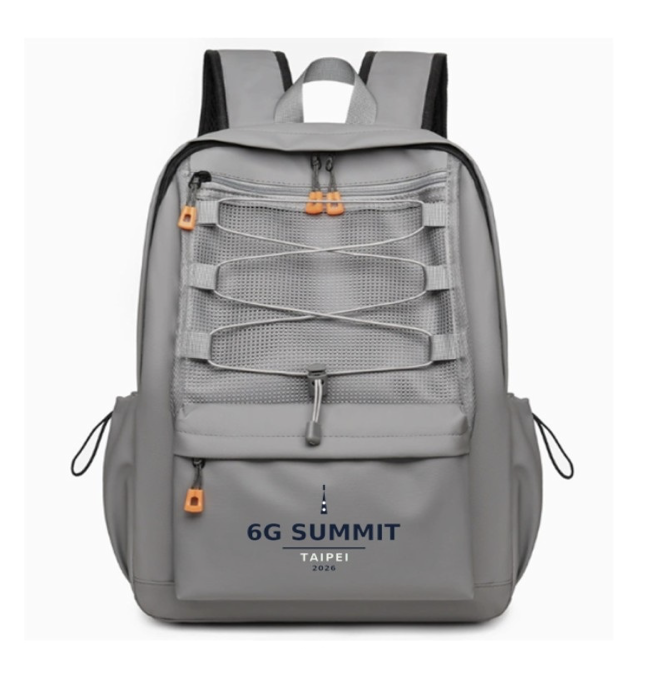
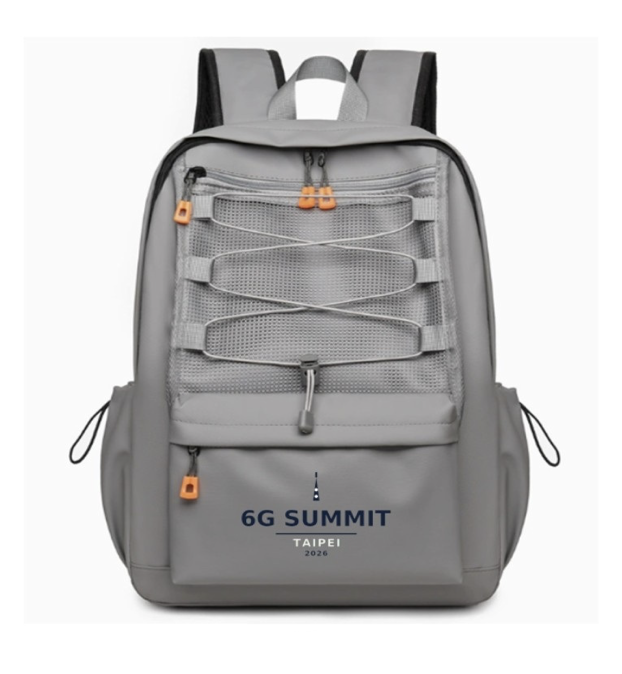
Update 13 August speakers and gift visuals

Changed region(s): [[0.0916, 0.0623, 0.9164, 0.9347], [0.3666, 0.7166, 0.6415, 0.8412], [0.3666, 0.6543, 0.3971, 0.6855]]

diff --git a/index.html b/index.html
@@ -9,7 +9,7 @@
   <link rel="stylesheet" href="speaker.css?v=20260803-3">
   <link rel="stylesheet" href="banner.css">
   <link rel="stylesheet" href="mobile.css?v=20260729-2">
-  <link rel="stylesheet" href="client-feedback.css?v=20260812-1">
+  <link rel="stylesheet" href="client-feedback.css?v=20260813-1">
 </head>
 <body>
   <header class="site-header">
@@ -117,14 +117,14 @@
         <h2 class="centered-section-title">SPEAKERS</h2>
         <p class="speaker-order-note">Speakers are listed in order of appearance in the program.</p>
         <div class="speaker-grid">
-          <article><div class="speaker-visual"><img src="assets/speaker-akihiro-nakao-20260804.jpg" alt="Akihiro Nakao" loading="lazy"></div><h3>Akihiro Nakao</h3><p>Chair<br>XGMF</p></article>
           <article><div class="speaker-visual"><img src="assets/speaker-sarah-skaluba-20260803.webp?v=20260803-1" alt="Sarah Skaluba" loading="lazy"></div><h3>Sarah Skaluba</h3><p>6G Policy Lead, Office of Policy and International Affairs<br>NTIA</p><button class="speaker-profile-button" type="button" data-speaker-profile="sarah-skaluba">VIEW PROFILE <span>→</span></button></article>
           <article><div class="speaker-visual"><img src="assets/speaker-mitch-tseng-20260812.jpg" alt="Mitch Tseng" loading="lazy"></div><h3>Mitch Tseng</h3><p>Chair, International Partnership Group<br>6GIF</p><button class="speaker-profile-button" type="button" data-speaker-profile="mitch-tseng">VIEW PROFILE <span>→</span></button></article>
           <article><div class="speaker-visual"><img src="assets/speaker-reiner-stuhlfauth-20260812.jpg" alt="Reiner Stuhlfauth" loading="lazy"></div><h3>Reiner Stuhlfauth</h3><p>Technology Manager Wireless<br>Rohde &amp; Schwarz</p><button class="speaker-profile-button" type="button" data-speaker-profile="reiner-stuhlfauth">VIEW PROFILE <span>→</span></button></article>
           <article><div class="speaker-visual"><img src="assets/speaker-antonio-de-la-oliva-20260812.jpg" alt="Antonio de la Oliva" loading="lazy"></div><h3>Antonio de la Oliva</h3><p>Associate Professor<br>Universidad Carlos III de Madrid</p><button class="speaker-profile-button" type="button" data-speaker-profile="antonio-de-la-oliva">VIEW PROFILE <span>→</span></button></article>
           <article><div class="speaker-visual"><img src="assets/speaker-dave-lu-20260812.jpg" alt="Dave Lu" loading="lazy"></div><h3>Dave Lu</h3><p>Vice President<br>Far EasTone</p><button class="speaker-profile-button" type="button" data-speaker-profile="dave-lu">VIEW PROFILE <span>→</span></button></article>
           <article><div class="speaker-visual"><img src="assets/speaker-kentaro-sakata-20260804.jpg" alt="Kentaro Sakata" loading="lazy"></div><h3>Kentaro Sakata</h3><p>Manager, Global Standardization Section<br>SoftBank Corp.</p><button class="speaker-profile-button" type="button" data-speaker-profile="kentaro-sakata">VIEW PROFILE <span>→</span></button></article>
-          <article><div class="speaker-visual"><img src="assets/speaker-kimi-imamura.png" alt="Kimi Imamura" loading="lazy"></div><h3>Kimi Imamura</h3><p>Vice President<br>Sharp</p></article>
+          <article><div class="speaker-visual"><img src="assets/speaker-haibin-zhang-20260813.jpg" alt="Haibin Zhang" loading="lazy"></div><h3>Haibin Zhang</h3><p>Professor<br>TNO Netherlands</p><button class="speaker-profile-button" type="button" data-speaker-profile="haibin-zhang">VIEW PROFILE <span>→</span></button></article>
+          <article><div class="speaker-visual"><img src="assets/speaker-kimi-imamura.png" alt="Kimi Imamura" loading="lazy"></div><h3>Kimi Imamura</h3><p>Executive Vice President<br>Sharp Laboratories of America</p><button class="speaker-profile-button" type="button" data-speaker-profile="kimi-imamura">VIEW PROFILE <span>→</span></button></article>
           <article><div class="speaker-visual"><img src="assets/speaker-james-shue-20260804.jpg" alt="James Shue" loading="lazy"></div><h3>James Shue</h3><p>Senior Vice President &amp; CTO<br>Pegatron</p><button class="speaker-profile-button" type="button" data-speaker-profile="james-shue">VIEW PROFILE <span>→</span></button></article>
           <article class="speaker-harald"><div class="speaker-visual"><img src="assets/speaker-harald-haas-20260806.png" alt="Harald Haas" loading="lazy"></div><h3>Harald Haas</h3><p>Van Eck Professor, University of Cambridge<br>Founder &amp; CSO, pureLiFi Ltd.</p><button class="speaker-profile-button" type="button" data-speaker-profile="harald-haas">VIEW PROFILE <span>→</span></button></article>
           <article class="speaker-crop-tight"><div class="speaker-visual"><img src="assets/speaker-i-kang-fu.png?v=20260731-2" alt="I-Kang Fu" loading="lazy"></div><h3>I-Kang Fu</h3><p>Senior Director<br>MediaTek</p><button class="speaker-profile-button" type="button" data-speaker-profile="i-kang-fu">VIEW PROFILE <span>→</span></button></article>
@@ -133,7 +133,7 @@
           <article><div class="speaker-visual"><img src="assets/speaker-pang-an-ting-20260804.jpg" alt="Pang-An Ting" loading="lazy"></div><h3>Pang-An Ting</h3><p>Vice President, ITRI<br>General Director, ICL, ITRI</p><button class="speaker-profile-button" type="button" data-speaker-profile="pang-an-ting">VIEW PROFILE <span>→</span></button></article>
           <article><div class="speaker-visual"><img src="assets/speaker-hungyu-wei-20260804.jpg" alt="Hungyu Wei" loading="lazy"></div><h3>Hungyu Wei</h3><p>Professor<br>National Taiwan University</p><button class="speaker-profile-button" type="button" data-speaker-profile="hungyu-wei">VIEW PROFILE <span>→</span></button></article>
         </div>
-        <p class="program-note"><strong>Additional confirmed speakers:</strong> Haibin Zhang (TNO), Alessandro Vanelli-Coralli (Università di Bologna), Calvanese Strinati Emilio (New-6G / CEA-Leti).</p>
+        <p class="program-note"><strong>Additional confirmed speakers:</strong> Alessandro Vanelli-Coralli (Università di Bologna), Calvanese Strinati Emilio (New-6G / CEA-Leti).</p>
         <p class="program-note">Speaker lineup and program are subject to change.</p>
       </div>
     </section>
@@ -227,6 +227,6 @@
       </address>
     </div>
   </footer>
-  <script src="script.js?v=20260812-1"></script>
+  <script src="script.js?v=20260813-1"></script>
 </body>
 </html>

diff --git a/registration.html b/registration.html
@@ -7,7 +7,7 @@
   <title>Registration | 2026 6G Summit Taipei</title>
   <link rel="stylesheet" href="style.css">
   <link rel="stylesheet" href="mobile.css?v=20260729-2">
-  <link rel="stylesheet" href="client-feedback.css?v=20260812-1">
+  <link rel="stylesheet" href="client-feedback.css?v=20260813-1">
 </head>
 <body>
   <header class="site-header">
@@ -64,8 +64,8 @@
         <section class="gift-panel">
           <p class="section-label">REGISTRATION GIFTS</p>
           <div class="gift-grid">
-            <article class="gift-card"><div class="gift-image-frame gift-image-backpack"><img src="assets/registration-backpack-20260812.jpg" alt="Gray official summit backpack with 2026 6G Summit Taipei logo"></div><div><h3>Official Summit Backpack</h3><p>Approx. 31 × 45 × 13 cm. Available while supplies last.</p></div></article>
-            <article class="gift-card"><div class="gift-image-frame gift-image-polo"><img src="assets/registration-polo-20260812.jpg" alt="Gray cotton piqué polo shirt with 2026 6G Summit Taipei logo"></div><div><h3>Cotton Piqué Polo Shirt</h3><p>Color: Gray. Select your preferred size during registration.</p></div></article>
+            <article class="gift-card"><div class="gift-image-frame gift-image-backpack"><img src="assets/registration-backpack-20260813.jpg" alt="Gray official summit backpack with 2026 6G Summit Taipei logo"></div><div><h3>Official Summit Backpack</h3><p>Approx. 31 × 45 × 13 cm. Available while supplies last.</p></div></article>
+            <article class="gift-card"><div class="gift-image-frame gift-image-polo"><img src="assets/registration-polo-20260813.jpg" alt="Gray cotton piqué polo shirt with 2026 6G Summit Taipei logo"></div><div><h3>Cotton Piqué Polo Shirt</h3><p>Color: Gray. Select your preferred size during registration.</p></div></article>
           </div>
           <p class="size-table-hint"><span aria-hidden="true">↔</span> Swipe horizontally to view all sizes / 左右滑動查看完整尺寸</p>
           <div class="size-table" tabindex="0" role="region" aria-label="Polo shirt size chart, scroll horizontally to view all columns"><table><thead><tr><th>Size / 尺寸</th><th>Recommended Height (cm) / 建議身高</th><th>Neck (cm) / 領圍</th><th>Sleeve (cm) / 袖長</th><th>Chest (cm) / 胸圍</th><th>Waist (cm) / 腰圍</th></tr></thead><tbody><tr><td>S</td><td>165–175</td><td>~38</td><td>~80.5</td><td>80–88</td><td>68–76</td></tr><tr><td>M</td><td>165–175</td><td>~40</td><td>~83</td><td>88–96</td><td>76–84</td></tr><tr><td>L</td><td>165–175</td><td>~42</td><td>~85.5</td><td>96–104</td><td>84–92</td></tr><tr><td>XL</td><td>175–185</td><td>~44</td><td>~88</td><td>104–112</td><td>92–100</td></tr><tr><td>XXL</td><td>175–185</td><td>~46</td><td>~90</td><td>112–120</td><td>100–108</td></tr></tbody></table></div>
@@ -74,6 +74,6 @@
     </section>
   </main>
   <footer class="simple-footer"><div class="container simple-footer-inner"><p>© 2026 6G Summit Taipei. All rights reserved.</p><address><a href="mailto:contact@6gif.org.tw">Email: contact@6gif.org.tw</a><span>Tel: +886-2-23567698#601</span><span>3 F., No. 51, Sec. 2, Chongqing S. Rd., Zhongzheng Dist., Taipei City 100409, Taiwan (R.O.C.)</span></address></div></footer>
-  <script src="script.js?v=20260812-1"></script>
+  <script src="script.js?v=20260813-1"></script>
 </body>
 </html>

diff --git a/script.js b/script.js
@@ -233,6 +233,22 @@ const speakerProfiles = {
       "He contributed to the identification of the 700–900 MHz, 1.7–2.1 GHz, and 2.6 GHz frequency bands for HIBS under WRC-23 Agenda Item 1.4. He is also involved in ITU-R WP 5D activities on IMT-2030 minimum technical performance requirements, including “Resilience and Extended Connectivity,” a key element relevant to HAPS/HIBS.",
     ],
   },
+  "haibin-zhang": {
+    name: "Haibin Zhang",
+    role: "Professor · TNO Netherlands",
+    paragraphs: [
+      "Haibin Zhang is a senior scientist and strategist at TNO, responsible for research as well as technical and strategic consultancy related to 5G and 6G wireless technology, 5G and 6G for verticals, and sustainable networks. He is also a part-time Professor at Eindhoven University of Technology, a visiting professor at National Taiwan University, and an elected Fellow of the IET.",
+      "With nearly 30 years of R&D experience in wireless communications, he has contributed to the development of 3G, 4G, 5G and 6G technologies, covering areas from physical-layer signal processing and error-correction coding to radio network architecture and resource management. His current research focuses on designing and developing next-generation flexible, robust and intelligent wireless network technologies, particularly AI-native wireless network architecture and management.",
+    ],
+  },
+  "kimi-imamura": {
+    name: "Kimi Imamura",
+    role: "Executive Vice President · Sharp Laboratories of America",
+    paragraphs: [
+      "Kimihiko “Kimi” Imamura, Vice President at Sharp, is leading the Satellite User Terminal Development Project at the company.",
+      "He previously served as Executive Vice President of Sharp Laboratories of America, based in Vancouver, Washington. He has a long career in wireless communication standardization and also has academic experience as a Professor at Osaka University.",
+    ],
+  },
   "james-shue": {
     name: "James Shue",
     role: "Senior Vice President & CTO · Pegatron",

diff --git a/client-feedback.css b/client-feedback.css
@@ -718,16 +718,17 @@ body {
   display: block;
   width: 100%;
   max-width: none;
-  height: auto;
-  object-fit: initial;
+  height: 100%;
+  object-fit: contain;
+  object-position: center;
 }
 
 .gift-image-backpack img {
-  transform: translateY(-23px);
+  transform: none;
 }
 
 .gift-image-polo img {
-  transform: translateY(-3px);
+  transform: none;
 }
 
 @media (max-width: 700px) {
@@ -743,11 +744,11 @@ body {
   }
 
   .gift-image-backpack img {
-    transform: translateY(-28px);
+    transform: none;
   }
 
   .gift-image-polo img {
-    transform: translateY(-4px);
+    transform: none;
   }
 
   .venue-section .venue-grid h2,
